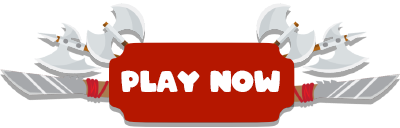
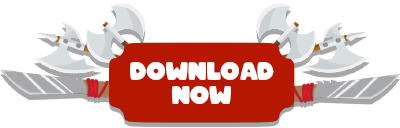
Updated play page

Changed region(s): [[0.3, 0.4688, 0.72, 0.8125]]

diff --git a/play/index.html b/play/index.html
@@ -90,7 +90,8 @@
             <div class="section-unit" id="generic-content">
                 <img class="beta-logo" src="images/logo-1.png">
                 <div class=""generic-content-area narrow">
-                    <a href="#beta" class="inline-button">Beta signups</a>
+                    <a href="#beta-download" class="inline-button">Downloads</a>
+                    <a href="#beta-form" class="inline-button">Beta signups</a>
                     <a href="#faq" class="inline-button">FAQ</a>
                 </div>
             </div>
@@ -99,22 +100,22 @@
                 <h1>Beta signups</h1>
                 <div class="generic-content-area narrow">
                     <img class="beta-banner" src="images/beta/beta_banner.jpg">
-                    <p>Anito Legends is currently in beta phase. The beta is currently only available on desktop browsers.</p>
+                    <p>Anito Legends is currently in beta phase. The beta is currently only available on PC, Mac, and Android devices.</p>
                     <p>We are gradually opening up the game for our community to try. Please use this time to stress test, hunt bugs, and make recommendations for our team to consider.</p>
                     <p>Please also note that the NFT's that will be airdropped to your wallets during this phase are running on Testnet and are therefore not final.</p>
                 </div>
                 
                 <div class="generic-content-area narrow boxed">
-                    <h3>Already a beta tester?</h3>
+                    <h3 id="beta-download">Already a beta tester?</h3>
                     <p class="center"><a class="btn-beta-play" href="https://play.anitolegends.com/beta/"><img src="images/btn-play.png"></a></p>
                     <p class="center">Click here to start playing!</p>
                     <p>If it's your first time to play, check the <strong>#announcement</strong> channel in our <a href="https://discord.gg/mC5yEmkSvE" target="_blank">Discord server</a> to ensure that you are part of the current batch of beta testers.</p>
                 </div>
 
                 <div class="generic-content-area narrow boxed">
-                    <h3>Interested in joining the beta?</h3>
+                    <h3 id="beta-form">Interested in joining the beta?</h3>
                     <p>To get started, you will need a web browser, (either Chrome, Firefox or Edge will do) and a Metamask wallet/account. Please view the onboarding document for a guide on registering for a Metamask wallet.</p>
-                    <p class="center"><i class="lni lni-library large"></i> <a href="https://docs.google.com/document/d/1iDVISzFuruPgIEOcsHp_IAM4kwlY-UGIMxujkOecMt8/edit?usp=sharing" target="_blank">Anito Legends Beta Onboarding Document</a></p>
+                    <p class="center"><i class="lni lni-library large"></i> <a href="https://drive.google.com/file/d/1z8NuNudC9o6OwJ1KvsxoBcBRuQE6pJrc/view?usp=sharing" target="_blank">Anito Legends Beta Onboarding Document</a></p>
                     <p>Once your Metamask wallet is ready, please accomplish this form to sign up:</p>
                     <iframe class="signup-form" src="https://docs.google.com/forms/d/e/1FAIpQLSfIWulSHQ_8WCFBo5klJft1x5snJ32ouxydhfz062_FAyZjjQ/viewform?embedded=true" width="800" height="1040" frameborder="0" marginheight="0" marginwidth="0">Loading…</iframe>
                 </div>
@@ -124,7 +125,7 @@
             <!-- faq start -->
             <div class="section-unit" id="faq">
                 <h1>FAQ</h1>
-                <small>Last edited: Feb. 9, 2022</small>
+                <small>Last edited: March 25, 2022</small>
                 <div class="faq">
                     <div class="faq-entry">
                         <input type="checkbox" class="faq-check" id="faq-check1">
@@ -135,7 +136,7 @@
                         </div>
                         <div class="faq-answer">
                             <div class="faq-answer-content">
-                                <p>We have made a detailed guide in our beta onboarding document. You can <a href="https://docs.google.com/document/u/0/d/1iDVISzFuruPgIEOcsHp_IAM4kwlY-UGIMxujkOecMt8/edit" target="_blank">check it out here</a>. Please make sure you are on testnet and not mainnet on MetaMask.</p>
+                                <p>We have made a detailed guide in our beta onboarding document. You can <a href="https://drive.google.com/file/d/1z8NuNudC9o6OwJ1KvsxoBcBRuQE6pJrc/view?usp=sharing" target="_blank">check it out here</a>. Please make sure you are on testnet and not mainnet on MetaMask.</p>
                             </div>
                         </div>
                     </div>
@@ -149,7 +150,7 @@
                         </div>
                         <div class="faq-answer">
                             <div class="faq-answer-content">
-                                <p>The beta version works <em>for desktop browsers only</em> so far.</p>
+                                <p>The beta version works for PC, Mac, and Android devices. iOS support is coming soon.</p>
                             </div>
                         </div>
                     </div>
@@ -163,7 +164,7 @@
                         </div>
                         <div class="faq-answer">
                             <div class="faq-answer-content">
-                                <p>Yes. We will also launch Anito Legends on iOS and Android. Please stay tuned for further announcements.</p>
+                                <p>Yes. The Anito Legends beta is currently playable on Android, and iOS support is coming soon. Please stay tuned for further announcements.</p>
                             </div>
                         </div>
                     </div>
@@ -289,7 +290,7 @@
                         </div>
                         <div class="faq-answer">
                             <div class="faq-answer-content">
-                                <p>Anito Legends is currently playable on Chrome, Firefox, Edge and Brave.</p>
+                                <p>The current version of Anito Legends is no longer browser-based and must be downloaded to your device.</p>
                             </div>
                         </div>
                     </div>
